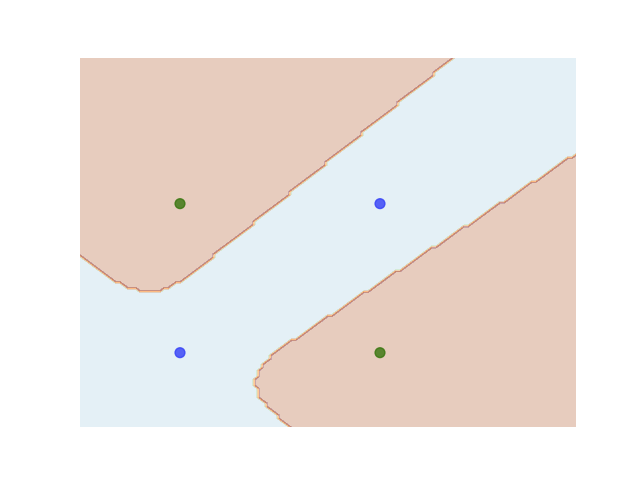
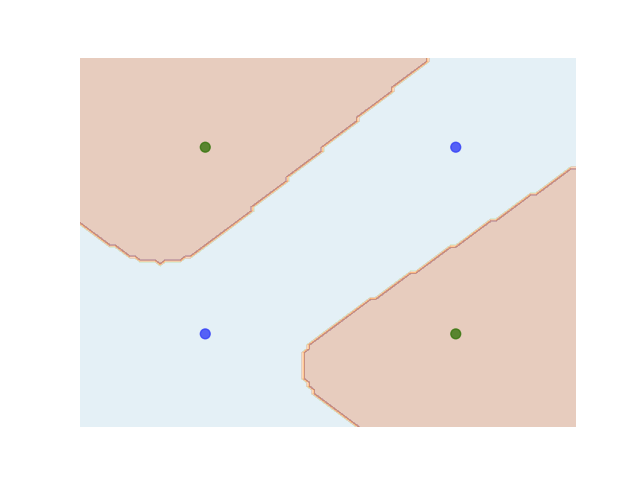
adding linear decision boundary example

diff --git a/tests/test_viz.py b/tests/test_viz.py
@@ -38,8 +38,8 @@ def test_dense_input_xor():
     ax.scatter(X[:,0],X[:,1], color=colors[Y].tolist(), s=50, alpha=0.8)
 
     h = .02
-    x_min, x_max = X[:, 0].min() - .5, X[:, 0].max() + 1
-    y_min, y_max = X[:, 1].min() - .5, X[:, 1].max() + 1
+    x_min, x_max = X[:, 0].min() - .5, X[:, 0].max() + .5
+    y_min, y_max = X[:, 1].min() - .5, X[:, 1].max() + .5
     xx, yy = np.meshgrid(np.arange(x_min, x_max, h),
                          np.arange(y_min, y_max, h))
     meshData = np.c_[xx.ravel(), yy.ravel()]
@@ -92,7 +92,6 @@ def test_dense_input_line():
         [ 0.58046833, 0.36303798],
         [ 0.57127328, 0.64131463],
         [ 0.95395092, 0.20912687],
-        [-0.01059796, 0.63072372],
         [ 0.52538242, 0.58039787],
         [ 0.43768949, 0.51123307],
         [ 0.26697003, 0.6801653 ],
@@ -116,19 +115,21 @@ def test_dense_input_line():
         [ 0.53548523, 0.41964381]])
     Y = np.array([1 if x[0] - x[1] >= 0 else 0 for x in X])
 
-    history = model.fit(X, Y, batch_size=50, epochs=100)
+    history = model.fit(X, Y, batch_size=49, epochs=100)
 
     # see which nodes activate for a given class
     X0 = X[X[:,0] - X[:,1] <= 0]
     X1 = X[X[:,0] - X[:,1] >= 0]
 
+    X = np.concatenate((X0, X1), axis=0)
+
     fig, ax = plt.subplots()
     ax.scatter(X0[:,0],X0[:,1], color='b', s=10, alpha=0.8)
     ax.scatter(X1[:,0],X1[:,1], facecolors='none', edgecolors='black')
 
-    h = .02
-    x_min, x_max = X[:, 0].min() - .5, X[:, 0].max() + 1
-    y_min, y_max = X[:, 1].min() - .5, X[:, 1].max() + 1
+    h = .01
+    x_min, x_max = 0, 1
+    y_min, y_max = 0, 1
     xx, yy = np.meshgrid(np.arange(x_min, x_max, h),
                          np.arange(y_min, y_max, h))
     meshData = np.c_[xx.ravel(), yy.ravel()]
@@ -142,4 +143,4 @@ def test_dense_input_line():
     fig.savefig("test_model_line.png")
 
     dg = DenseGraph(model)
-    dg.render(input=X0, filename='test_input_line', duration=.1)
+    dg.render(input=X, filename='test_input_line', duration=.3)

diff --git a/README.md b/README.md
@@ -24,6 +24,8 @@ Produces the following graph:
 
 ### Node Activation Visualization
 
+#### XOR Function
+
 ```python
     model = keras.models.Sequential()
     model.add(layers.Dense(3, input_dim=2, activation='sigmoid'))
@@ -43,7 +45,7 @@ Produces the following graph:
     dg.render(input=X)
 ```
 
-Produces the following decision boundary:
+Produces the following decision boundary (visualized using `matplotlib`):
 
 <p align="center">
     <img src="examples/xor_model.png" width=50% height='auto'>
@@ -54,3 +56,42 @@ And the following GIF:
 <p align="center">
     <img src="examples/xor_model.gif"/>
 </p>
+
+The darker the node the higher the activation is at that node.
+
+#### Linear Decisions Boundary
+
+```python
+    import sklearn.datasets as datasets
+
+    model = keras.models.Sequential()
+    model.add(layers.Dense(3, input_dim=2, activation=ACTIVATION))
+    model.add(layers.Dense(1, activation=ACTIVATION))
+    model.compile(loss="binary_crossentropy")
+
+    centers = [[.5, .5]]
+    t, _ = datasets.make_blobs(n_samples=50, centers=centers, cluster_std=.1)
+    X = np.array(t)
+    Y = np.array([1 if x[0] - x[1] >= 0 else 0 for x in X])
+
+    history = model.fit(X, Y)
+
+    dg = DenseGraph(model)
+    dg.render(input=X, duration=.3)
+```
+
+Produces the following decision boundary (visualized using `matplotlib`):
+
+<p align="center">
+    <img src="examples/line_model.png" width=50% height='auto'>
+</p>
+
+And the following GIF:
+
+<p align="center">
+    <img src="examples/line_model.gif"/>
+</p>
+
+At a glance you can see that the activations of the middle hidden node
+results in predictions of class 0 while the activation of the left-most
+and right-most hiddent nodes result in predictions of class 1.
